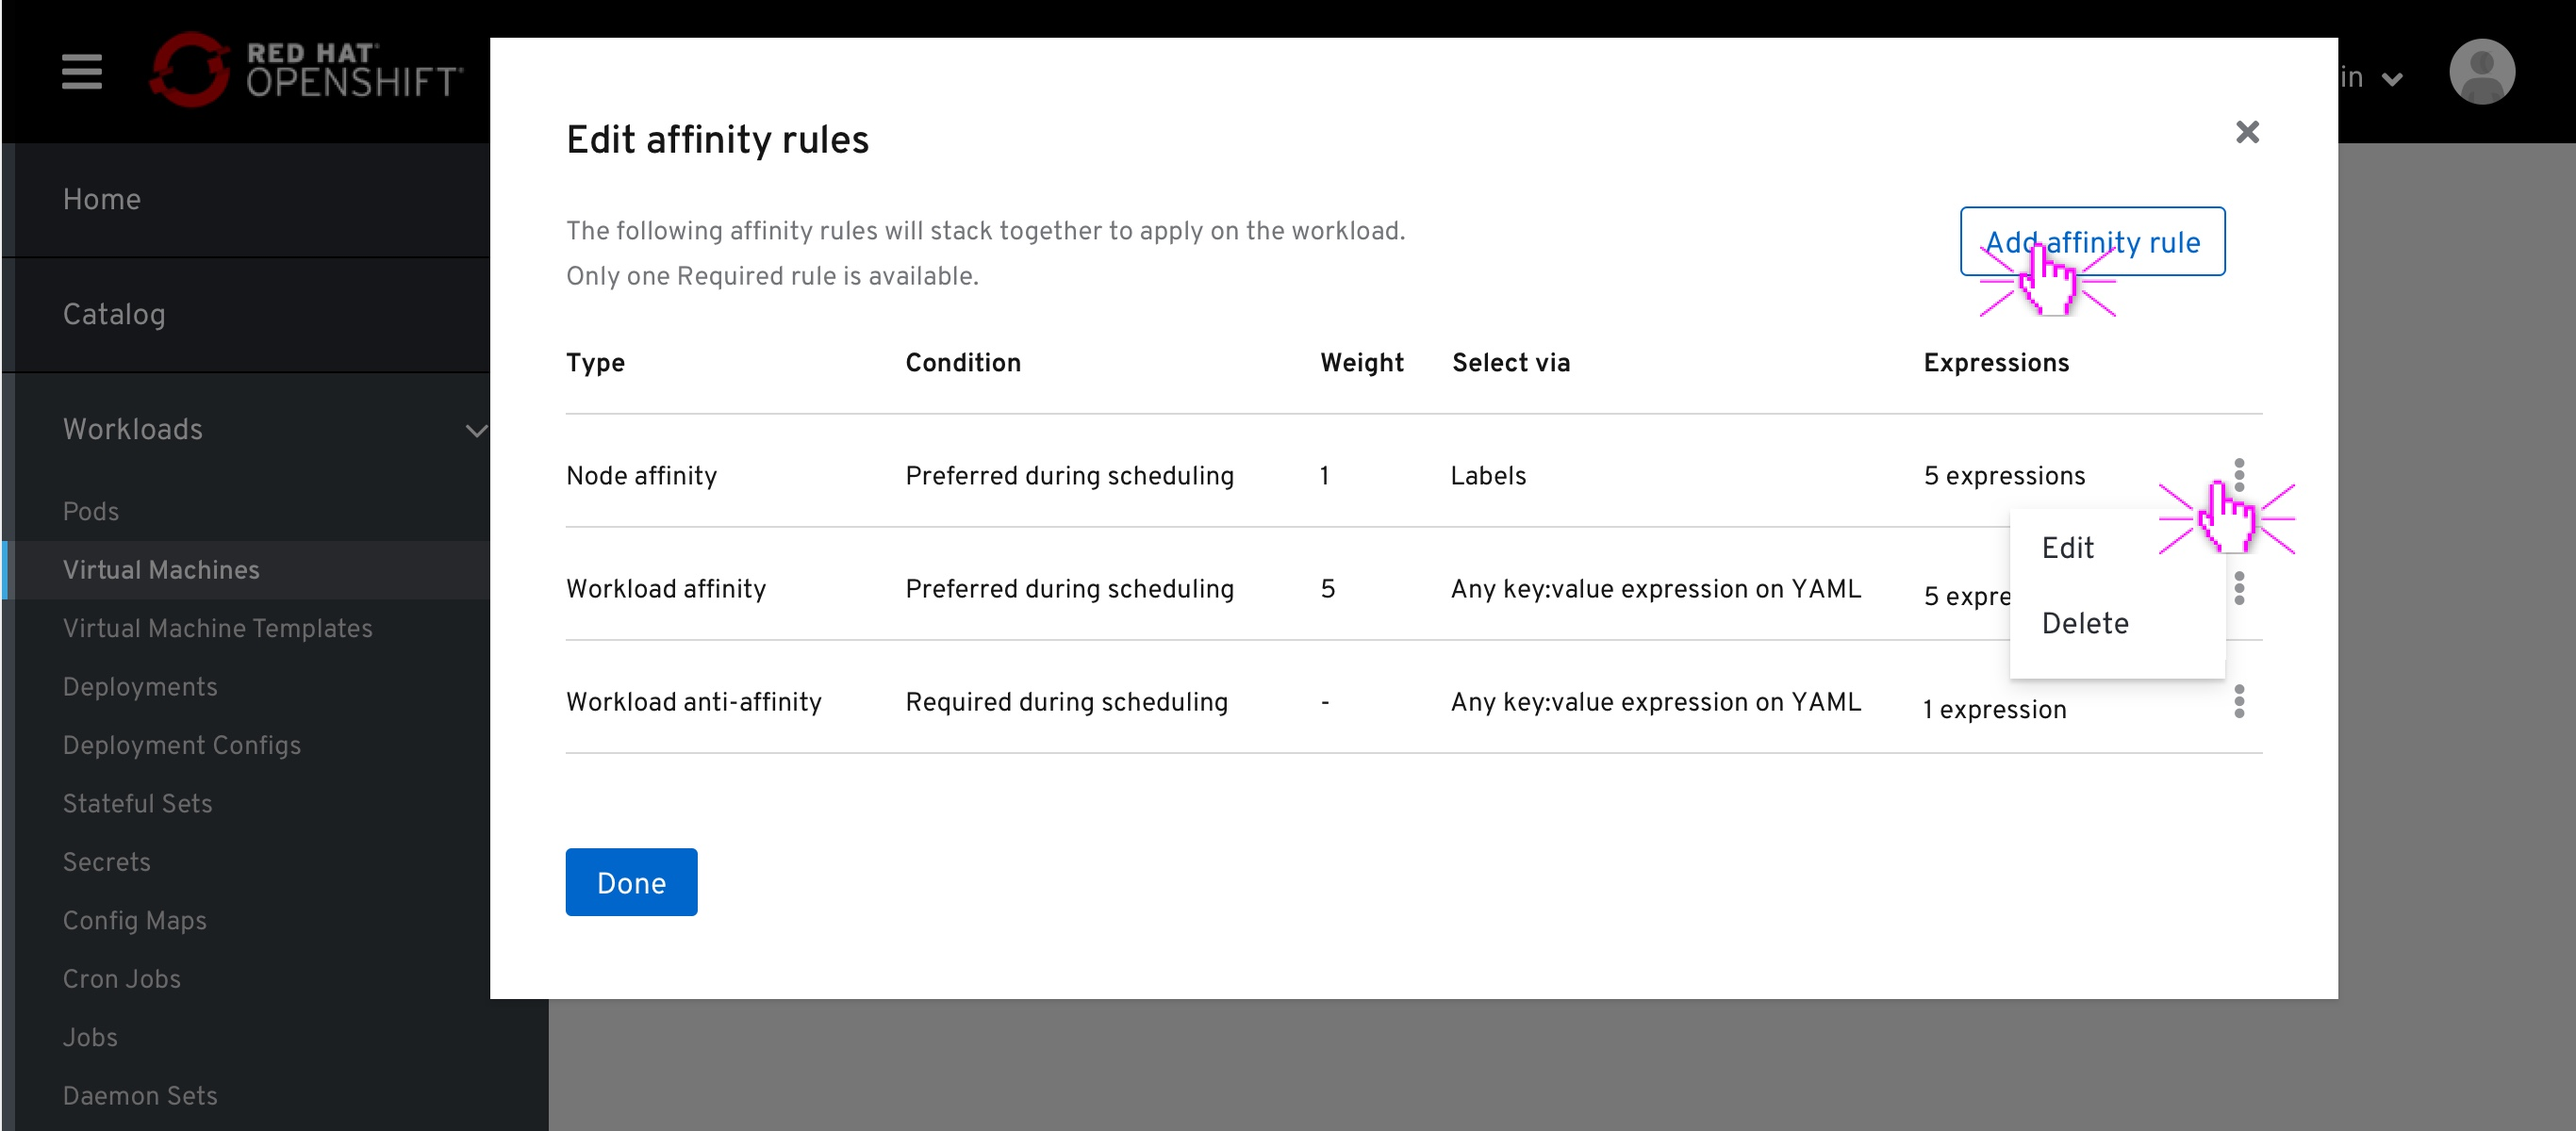
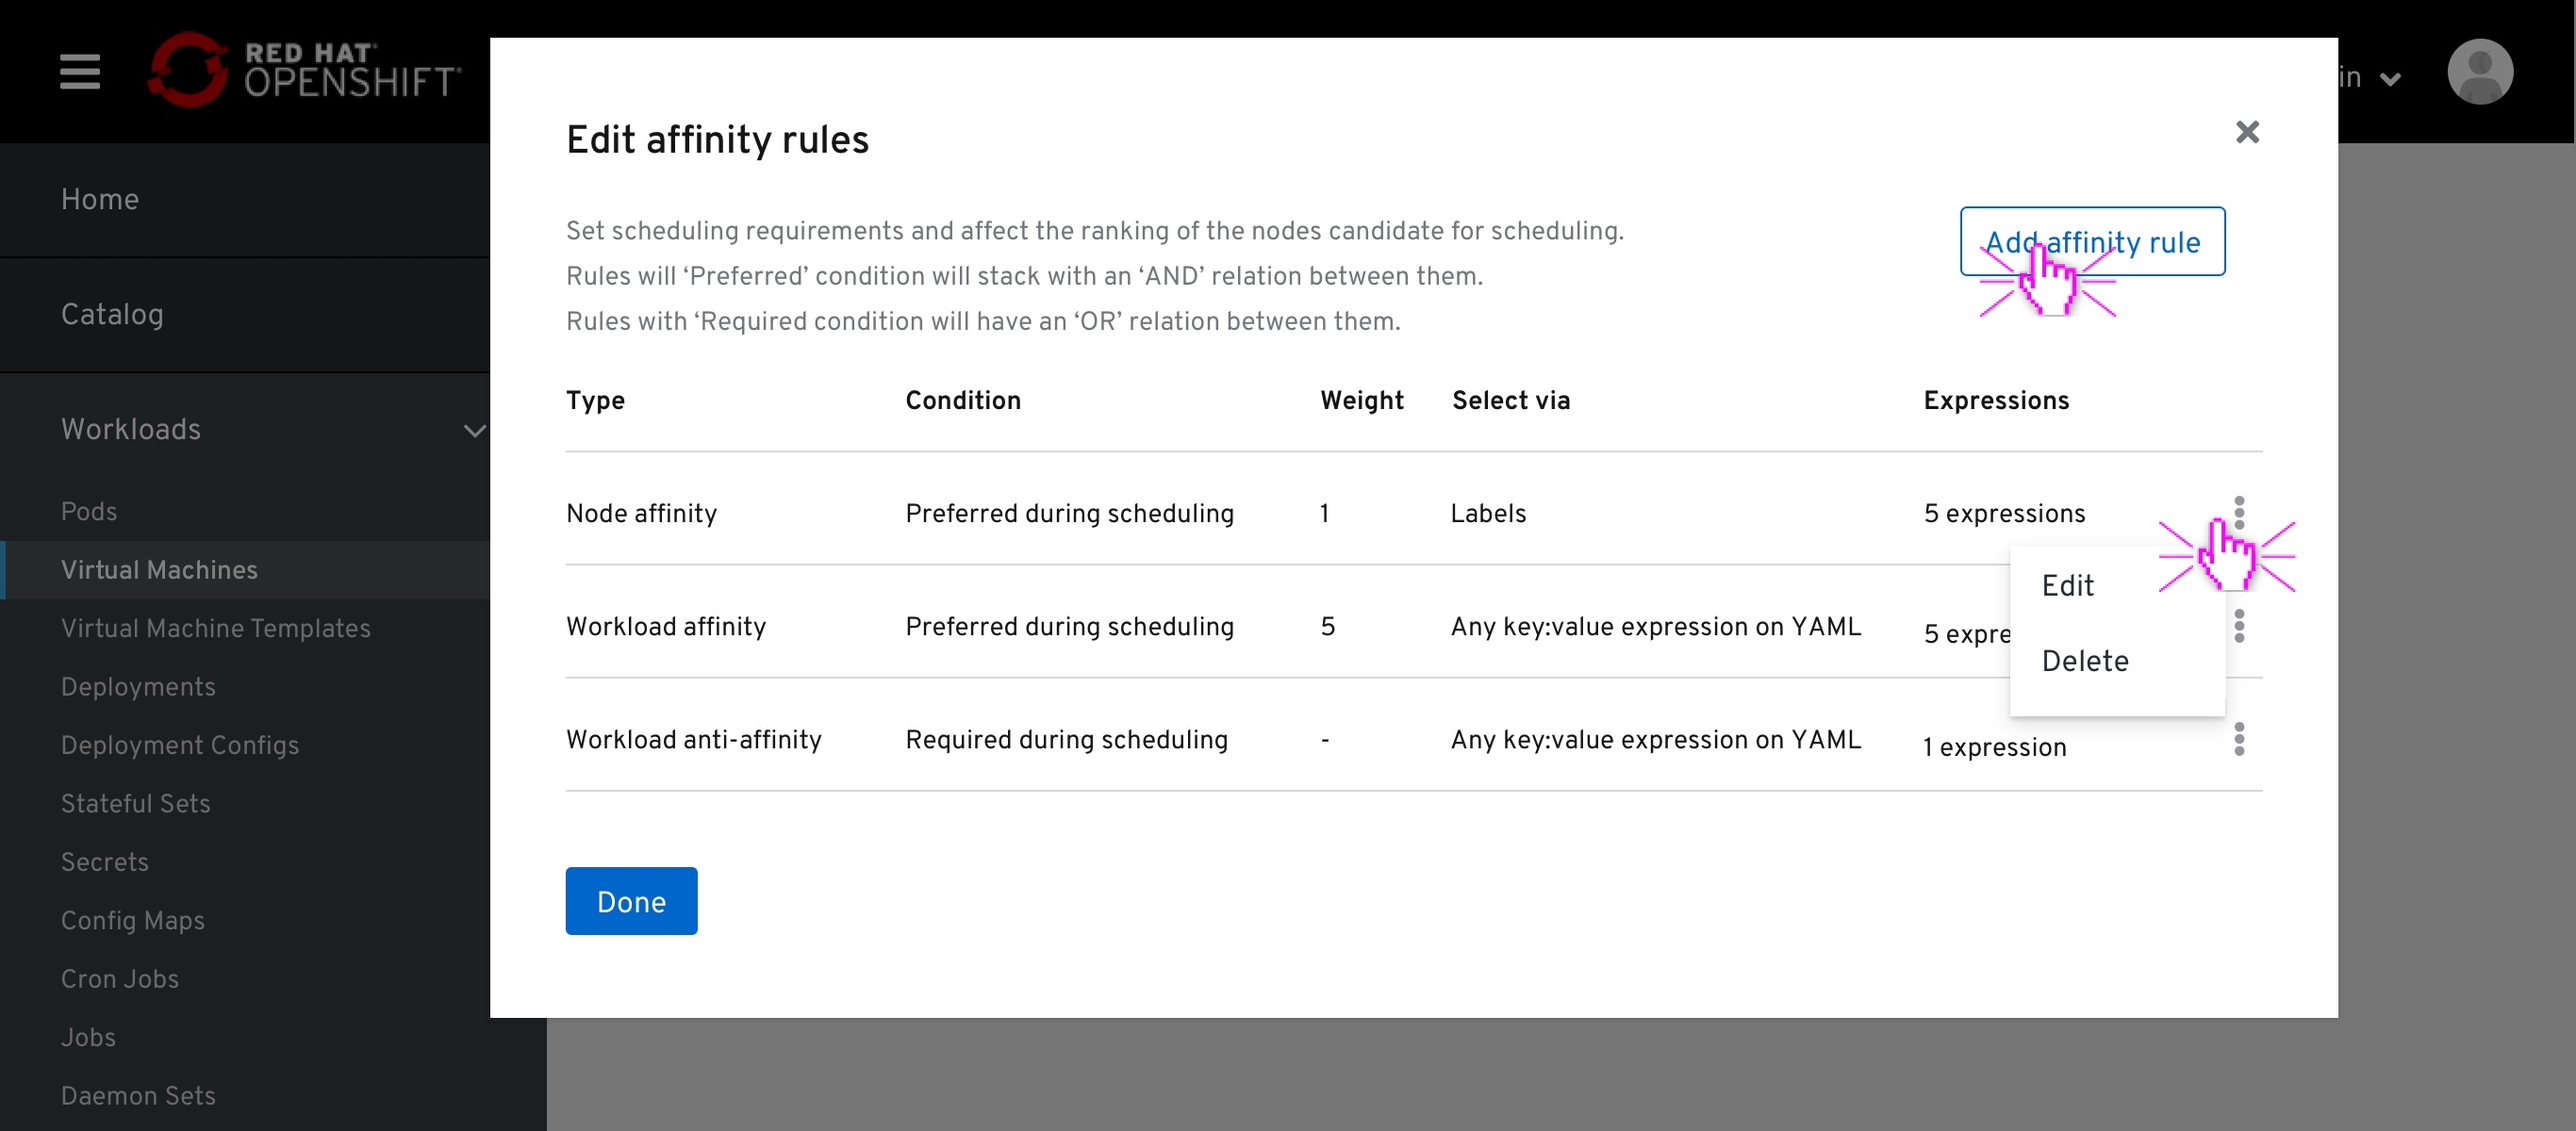
adding support text to the rules list to explain the relations between the rules

diff --git a/designs/virtualization/4.5/Scheduling/Affinity/Affinity.md b/designs/virtualization/4.5/Scheduling/Affinity/Affinity.md
@@ -7,16 +7,26 @@ version: 4.5
 
 Introducing Affinity as it appears in-page and the Edit modal.
 
+## in-page placement
+
 ![Affinity field in the Scheduling section ](img/Affinity-0-0.jpg)
 The affinity field is placed in the Workload details page, Details tab, Scheduling section, Policies columns.
 
 ![Affinity field in the Scheduling section ](img/Affinity-0-1.jpg)
 The affinity field counts the number of rules applied.
 
+## Affinity rules list
+
 ![Affinity all rules modal ](img/Affinity-1-0.jpg)
 On clicking on the counter Or the Edit pencil icon, the user will be presented with a modal, containing all the applied rules for this workload.
 Clicking on the 'Add affinity rule' button will replace this modal with the 'Add affinity rule' modal.
 Selecting 'Edit' from each existing rule kebab menu will replace this modal with the 'Edit affinity rule' modal
+
+A support text below the header will notify the user that:
+"Rules will ‘Preferred’ condition will stack with an ‘AND’ relation between them. 
+Rules with ‘Required condition will have an ‘OR’ relation between them."
+
+## Add/Edit affinity rule modal
 
 ![Affinity Edit/Create modal ](img/Affinity-2-0.jpg)
 TThe default fields for an affinity rule are:
